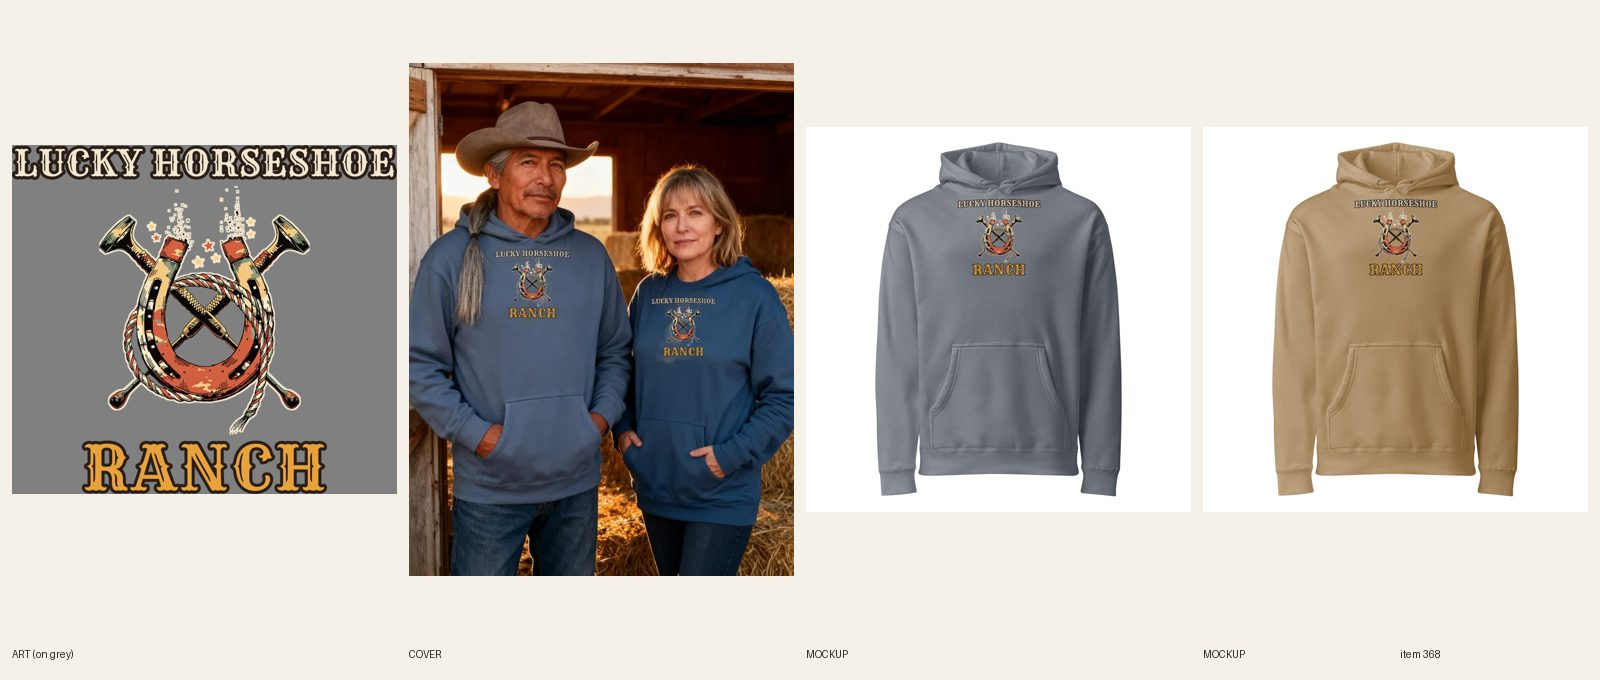
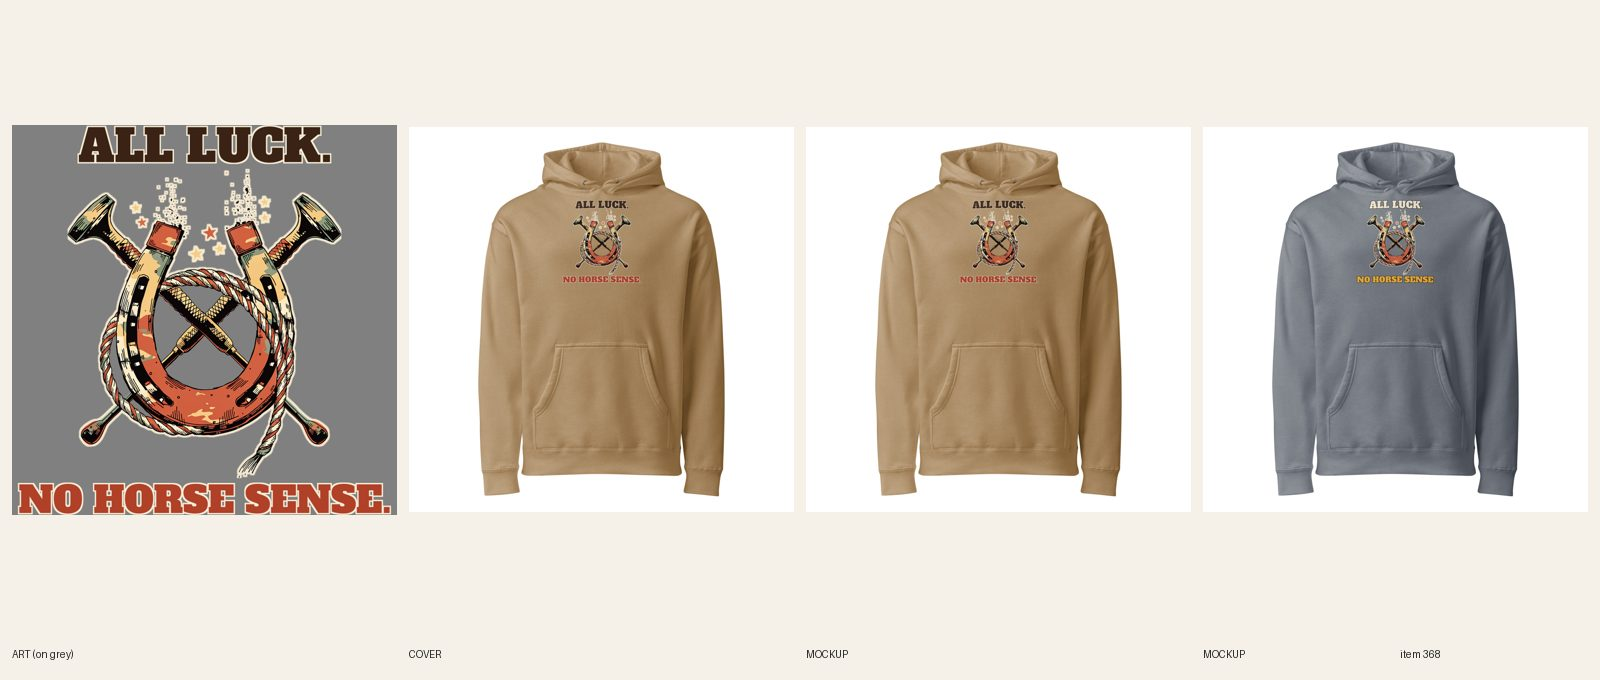
[C] review 368 (redo)
Claude-Session: https://claude.ai/code/session_01CCHcDj8LcJJ8qUPtKE3cvn

diff --git a/designs/c368/make.py b/designs/c368/make.py
@@ -1,0 +1,9 @@
+import sys; sys.path.insert(0,'.')
+from designs.lib import *
+im=Image.open('docs/print-files/368-lucky-horseshoe-ranch.png').convert('RGBA'); W=im.width
+art=im.crop((0,437,W,2474)); art=art.crop(art.getbbox()); art=art.resize((int(art.width*1.3),int(art.height*1.3)),Image.LANCZOS)
+DK=(58,34,20,255); RUST=(176,64,40,255); GOLD=(240,176,56,255); DK2=(32,28,24,255)
+for tag,c1,k1,c2,k2,bg in (('sandstone',DK,CREAM,RUST,CREAM,(190,160,120,255)),('storm',CREAM,DK2,GOLD,DK2,(86,112,148,255))):
+    h1=line("ALL LUCK.",'alfa',0.66,W,c1,k1,kw=25); h2=line("NO HORSE SENSE.",'alfa',0.97,W,c2,k2,kw=25)
+    print(tag,'headline px',h1.width,'punch px',h2.width,'heights',h1.height,h2.height,'art',art.size)
+    out=lockup(art,W,[h1],[h2],f'368-v2-luck-{tag}',{tag:bg}); print(out.size,out.height/out.width)

diff --git a/docs/pipeline/368-lucky-horseshoe-heavyweight-lucky-horseshoe-ranch.md b/docs/pipeline/368-lucky-horseshoe-heavyweight-lucky-horseshoe-ranch.md
@@ -1,4 +1,4 @@
-status: BUILDING [C] 2026-10-20 08:03
+status: REVIEW
 lane: C
 type: twin
 id: 368
@@ -36,3 +36,4 @@ kd: 32
 - 2026-10-17 22:27 UTC director: REDO withdrawn: builder [C] had already fixed the cover per 9b (new sheet checked: hood visible, both people in the hoodie). The copy notes are being fixed by the director; approving.
 - 2026-10-17 22:39 UTC director: APPROVED, LIVE. ACTIVE + Online Store, Headless and Google & YouTube; audit --handle PASS (0 warn). Copy polished by the director first (R8: keyword counts, superlatives, false claims).
 - 2026-10-18 17:22 UTC director: QUALITY RESET grade C (new line + type), REDO. The product stays ACTIVE (same handle, URL, title keyword). 1. Line (R3.12, quality-reset 'Lines'): "LUCKY HORSESHOE / RANCH": Brand label, no joke. Write 5 candidates, keep the one a stranger laughs at in 3 seconds without backstory; kill lines that only describe the picture; if none of the 5 is funny, PARK it. 2. Quality reset type bar (docs/backlog/quality-reset.md, 'The new bar'): headline at least 90% of the art width, heavy, colors pulled from the art; second line at least 45% of the headline's height, never a thin script on a dark or mid garment; use the lettering as a shape (arch, stacked lockup, words breaking into the art), not a plain bar above and a script line below; no font used on more than 1 in 6 of the last 30 designs. 3. Keep the art if it carries the new line, else one new illustration (R4/R5). New print means a new cover per R6.10, copy line one rewritten for the new joke (R8.3), and a fresh review sheet (R7.7). While quality-reset.md says PAUSED, only lane A builds, and only the samples step 2 names.
+- 2026-10-20 08:12 UTC builder [C]: REDO new line + type (grade C; title card 7i done). 5 candidates, compared with Not Cheating. Improving My Lie., Oops. Anyway. and Wildly Low Maintenance: "ALL LUCK. / NO HORSE SENSE." (kept: the lucky horseshoe is the whole plan, self-roast with a contrast), "LUCKY HORSESHOE RANCH" (old brand label), "BRANDED BY BAD DECISIONS" (too close to lane E's Eight Seconds of Bad Decisions), "I DON'T NEED LUCK. I HAVE A HORSE.", "ALL HAT. NO HORSE." (stock). Same horseshoe/irons/rope art scaled 130%. Measured ink widths (card 7h): setup ALL LUCK. 2171 px / punch NO HORSE SENSE. 3189 px (147%, full width; the setup line is deliberately the shorter one). Alfa Slab One both lines. Light-file (R5.3.8): Sandstone file 1090249416 (setup dark brown with a cream keyline, punch rust), Storm Blue file 1090249454 (setup cream with a dark keyline, punch gold); docs/print-files/368-v2-luck-sandstone.png / -storm.png; print 3290 x 3334, FW 1600 TOP 20, 14/14 relinked (verified on the API before REVIEW). 2 fronts replaced in place, read at phone size (first try had a thin Rye setup line that read light on Sandstone; switched to Alfa). Title set to "Unisex Western – All Luck, No Horse Sense Heavyweight Hoodie" (handle unchanged), copy + SEO rewritten; handle added to retired-covers.json. Plain product shot. fal $0.

diff --git a/docs/intake-log.md b/docs/intake-log.md
@@ -6,6 +6,7 @@ RUNNING director since 2026-10-20 07:17 UTC
 RUNNING lane B since 2026-10-20 07:29 UTC
 2026-10-20 08:00 UTC — [E] Builder run: redid #608 Women's Pickleball tee (line + type: POLITE SMILE. / PERSONAL VENDETTA., same serene-lady art, Bevan, dark-ink file on 5 light colors, 30/30 synced). REVIEW. fal $0.
 RUNNING lane C since 2026-10-20 07:00 UTC
+2026-10-20 08:12 UTC — [C] Builder run: redid #368 Unisex Western heavyweight hoodie (new line + type: ALL LUCK. / NO HORSE SENSE., punch full width 3189 px, Alfa Slab, same horseshoe art, Sandstone file 1090249416 + Storm Blue file 1090249454, FW 1600 TOP 20, 14/14 relinked, 2 fronts replaced in place, title + copy + SEO updated). REVIEW. fal $0.
 2026-10-20 08:03 UTC — [C] Builder run: redid #450 Unisex Crow hoodie (new line + type: FINDERS KEEPERS. / SORRY ABOUT YOUR EARRING., headline 3249 px / punch 3281+3265 px, Big Shoulders + Alfa Slab, same crow art, Sand file 1090246352 + Navy file 1090246409, FW 1500 TOP 0, 12/12 relinked, 2 fronts replaced in place, title + copy + SEO updated); added 9 handles to retired-covers.json. REVIEW. fal $0.
 2026-10-20 07:57 UTC — [C] Builder run: redid #509 Women's National Park zip hoodie (new line + type: I'M NOT SINGLE. / I HAVE A CANYON., headline 3034 px / punch 3096 px, Big Shoulders + Bowlby, same canyon art, Ash file 1090241503 + Navy file 1090241557, BW 1650 BT 225, 12/12 relinked, back mockups replaced, title + copy + SEO updated). REVIEW. fal $0.
 2026-10-20 07:47 UTC — [C] Builder run: redid #442 Men's Chess zip hoodie (new line + type: SORRY ABOUT / YOUR PAWN., headline 3313 px / punch 3354 px, Alfa Slab, same knight art, Ash file 1090239213 + Navy file 1090239262, BW 1650 BT 225, 12/12 relinked, back mockups replaced, title + copy + SEO updated). REVIEW. fal $0.
